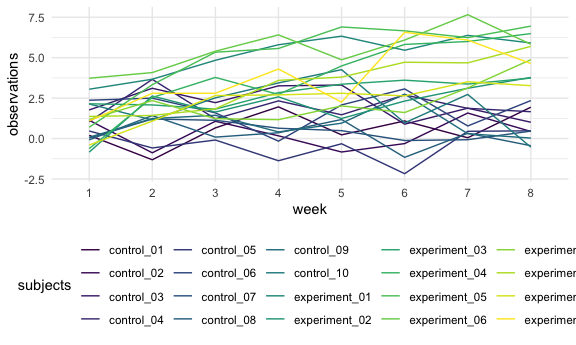
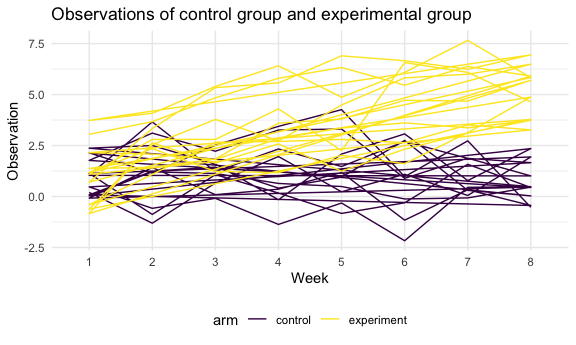
finish

diff --git a/p8105_hw5_jh4324.md b/p8105_hw5_jh4324.md
@@ -87,9 +87,13 @@ Make a spaghetti plot
 ``` r
 spaghetti_plot = 
   path_df %>%
-  unite("subjects", c(arm, subject_id), sep = "_", remove = TRUE, na.rm = FALSE) %>% 
-  ggplot(aes(x = week, y = observations, group = subjects, color = subjects)) + 
-  geom_path()
+  ggplot(aes(x = week, y = observations, group = arm, color = arm)) + 
+  geom_path() +
+  labs(
+    title = "Observations of control group and experimental group",
+    x = "Week",
+    y = "Observation"
+  )
 
 ggsave("spaghetti_plot.jpg")
 ```
